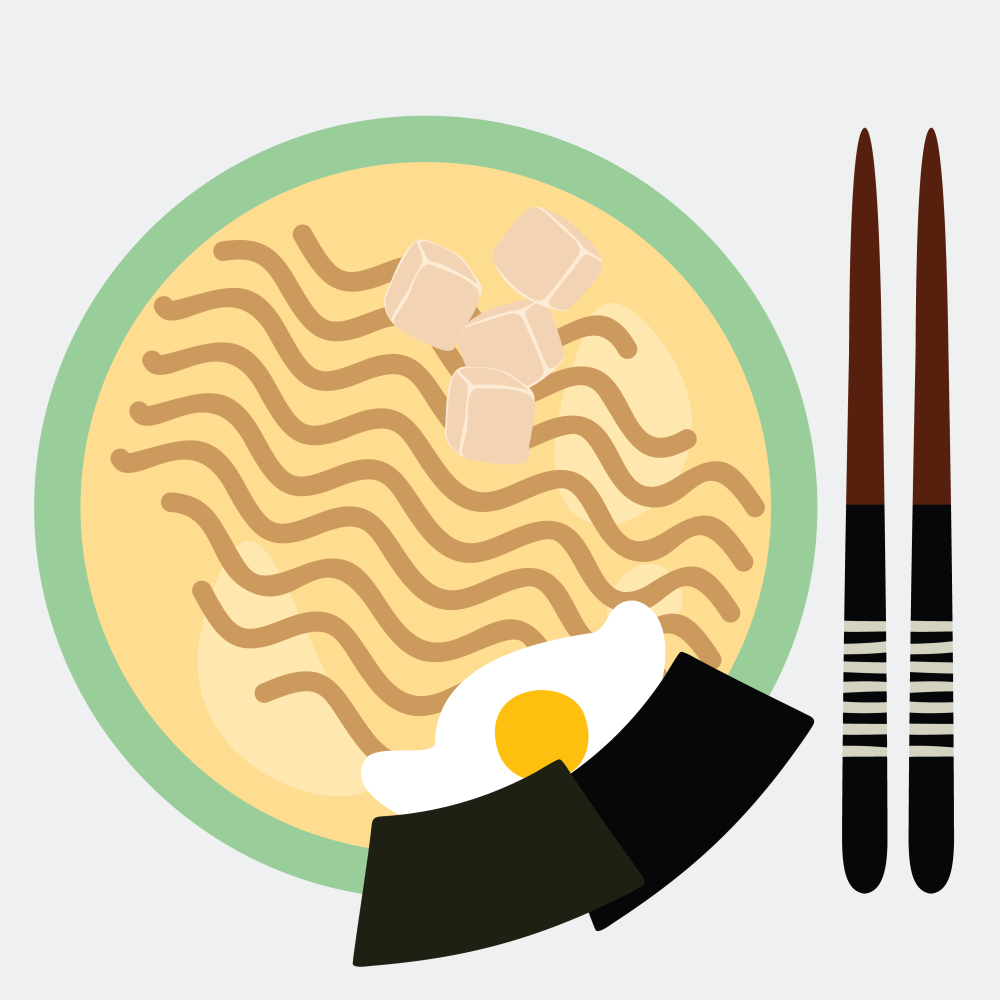
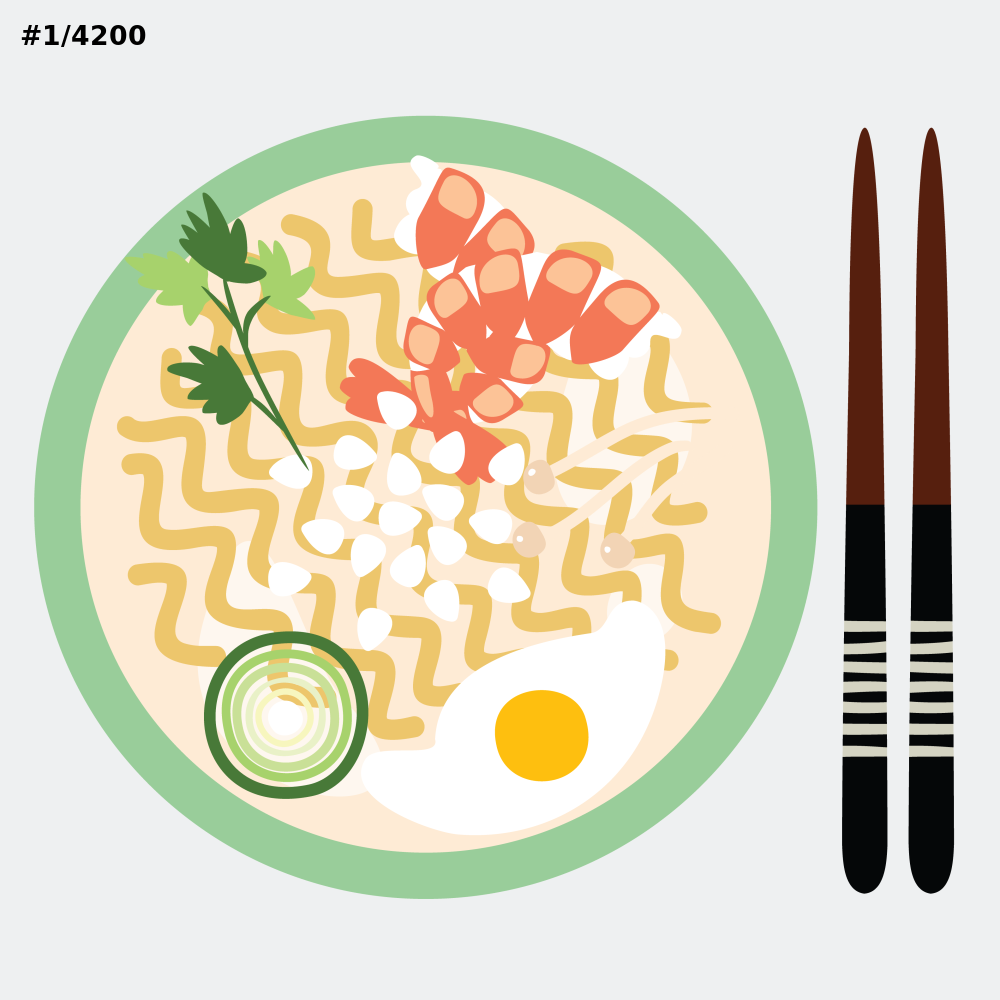
update engine w/ promises & new 'DNA' based metadata hash system

diff --git a/nft_pixel_maker/index.js b/nft_pixel_maker/index.js
@@ -5,74 +5,168 @@ const { layers, width, height } = require("./input/config");
 const canvas = createCanvas(width, height);
 const ctx = canvas.getContext("2d");
 // sets the amount to make  via terminal
-const edition = myArgs.length > 0 ? Number(myArgs[0]) : 1;
-let metadata = [];
-let attributes = [];
-let hash = [];
-let decodedHash = [];
+const editionSize = myArgs.length > 0 ? Number(myArgs[0]) : 1;
+let metadataList = [];
+let attributesList = [];
+let dnaList = [];
 
-const saveLayer = (_canvas, _edition) => {
-  fs.writeFileSync(`./output/${_edition}.png`, _canvas.toBuffer("image/png"));
+const saveImage = (_editionCount) => {
+  fs.writeFileSync(`./output/${_editionCount}.png`, canvas.toBuffer("image/png"));
 };
+
+const signImage = (_sig) => {
+  ctx.fillStyle = "#000000";
+  ctx.font = "bold italics 20pt Arial";
+  ctx.textBaseline = "top";
+  ctx.textAlign = "left";
+  ctx.fillText(_sig, 20, 20);
+};
+
+const genColour = () => {
+  let hue = Math.floor(Math.random() * 3600);
+  let pastel = `hsl(${hue}, 100%, 85%)`;
+  return pastel;
+}
+
+const drawBackground = () => {
+  ctx.fillStyle = genColour();
+  ctx.fillRect(0, 0, width, height);
+}
+
+
 
 //pushes meta data for nft to JSON
-const addMetadata = (_edition) => {
+const addMetadata = (_dna, _edition) => {
   let dateTime = Date.now();
   let tempMetadata = {
-    hash: hash.join(""),
-    decodedHash: "",
+    dna: _dna,
     edition: _edition,
     dateTime: dateTime,
-    attributes: attributes,
+    attributes: attributesList
   };
-  metadata.push(tempMetadata);
-  attributes = [];
-  hash = [];
-  decodedHash = [];
+  metadataList.push(tempMetadata);
+  attributesList = [];
 };
 
-const addAttributes = (_element, _layer) => {
-  let tempAttr = {
-    id: _element.id,
-    layer: _layer.name,
-    name: _element.name,
-    rarity: _element.rarity,
-  };
-  attributes.push(tempAttr);
-  hash.push(_layer.id);
-  hash.push(_element.id);
-  decodedHash.push({ [_layer.id]: _element.id });
+const addAttributes = (_element) => {
+  let selectedElement = _element.layer.selectedElement;
+  attributesList.push({
+    name: selectedElement.name,
+    rarity: selectedElement.rarity
+  })
 };
 
 // applies layers randomly to create our editions.
-const drawLayer = async (_layer, _edition) => {
-  let element =
-    _layer.elements[Math.floor(Math.random() * _layer.elements.length)];
-  addAttributes(element, _layer);
-
-  const image = await loadImage(`${_layer.location}${element.fileName}`);
-  ctx.drawImage(
-    image,
-    _layer.position.x,
-    _layer.position.y,
-    _layer.size.width,
-    _layer.size.height
-  );
-
-  saveLayer(canvas, _edition);
+const loadLayerImg = async (_layer) => {
+  return new Promise(async (resolve) => {
+    const image = await loadImage(`${_layer.location}${_layer.selectedElement.fileName}`);
+    resolve({layer: _layer, loadedImage: image})
+  });
 };
 
-// we want to loop over editon create a piece and loo over the layers obect.
-for (let i = 1; i <= edition; i++) {
-  layers.forEach((layer) => {
-    drawLayer(layer, i);
-  });
-  addMetadata(i);
-  console.log("Creating edition " + i);
-}
-//
+const drawElement = (_element) => {
+  ctx.drawImage(
+    _element.loadedImage,
+    _element.layer.position.x,
+    _element.layer.position.y,
+    _element.layer.size.width,
+    _element.layer.size.height
+  );
+  addAttributes(_element);
+};
 
-fs.readFile("./output/_metadata.json", (err, data) => {
-  if (err) throw err;
-  fs.writeFileSync("./output/_metadata.json", JSON.stringify(metadata));
-});
+const constructLayerToDna = (_dna, _layers) => {
+  // seperate the DNA number into pairs of 2 into an array
+  let dnaSegment = _dna.toString().match(/.{1,2}/g);
+  let counter = 0;
+  let mappedDnaToLayers = _layers.map((layer) => {
+    // select layer.element[index] by using remainder from each two pair/# of elements in the layer
+    let selectedElement = layer.elements[dnaSegment[counter] % layer.elements.length]
+    counter += 1;
+    return {
+      location: layer.location,
+      position: layer.position,
+      size: layer.size,
+      selectedElement: selectedElement
+    };
+  });
+  return mappedDnaToLayers;
+};
+
+const isDnaUnique = (_DnaList = [], _dna) => {
+  let foundDna =  _DnaList.find((i) => i === _dna);
+  return foundDna == undefined ? true : false;
+};
+
+const createDna = (_len) => {
+  let randNum = 0;
+  //have to generate a random two number pair for each layer (10 layers = 20 numbers)
+  if (_len > 16) {
+    let maxChar = 15;
+    //if more than 15 character number, BigInt must be used to avoid trailing zeroes
+    randNum = BigInt("" + Math.floor(
+      Number(`1e${maxChar}`) + Math.random() * Number(`9e${maxChar}`)) + Math.floor(Number(`1e${_len - maxChar - 1}`) + Math.random() * Number(`9e${_len - maxChar - 1}`)));
+  } else {
+    randNum = Math.floor(
+      Number(`1e${_len}`) + Math.random() * Number(`9e${_len}`)) + Math.floor(1000 + Math.random() * 9000);
+    console.log(randNum)
+  }
+  return randNum;
+}
+
+const writeMetadata = (_data) => {
+  fs.writeFileSync("./output/_metadata.json", _data);
+};
+
+// function which allows serilaization of BigInt into metadata if over 8 layers
+const stringify = (value) => {
+  if (value !== undefined) {
+    return JSON.stringify(value, (_, v) => typeof v === 'bigint' ? `${v}n` : v);
+  }
+};
+
+const startCreating = async () => {
+  //clears metadata every time you run the file
+  writeMetadata("");
+  // we want to loop over editon create a piece and loo over the layers obect.
+  let editionCount = 1;
+
+  while(editionCount <= editionSize) {
+    let newDna = createDna((layers.length * 2) - 1)
+    console.log(`New DNA: ${newDna}`);
+    // everything in if statement will run if dna is not found in dnalist
+    
+    if (isDnaUnique(dnaList, newDna)) {
+      
+      let results = constructLayerToDna(newDna, layers);
+      let loadedElements = [];
+      
+      // pushing each promise loadedElements PROMISE array
+      results.forEach(layer => {
+        loadedElements.push(loadLayerImg(layer));
+      })
+      
+      // takes in array of promises
+      await Promise.all(loadedElements).then(elementArray => {
+        drawBackground();
+        elementArray.forEach(element => {
+          drawElement(element);
+        });
+        signImage(`#${editionCount}/4200`);
+        saveImage(editionCount);
+        addMetadata(newDna, editionCount);
+        console.log(`New DNA is unique. Created edition ${editionCount} with DNA: ${newDna}`);
+      });
+        // Add new DNA (only if unique) to DNA List
+      dnaList.push(newDna)
+      // only increment counter if DNA is unique else log "DNA Exists" and don't increment
+      editionCount++;
+    } else {
+      console.log("DNA exists")
+    }
+  }
+  console.log("Final DNA List: ", dnaList);
+  writeMetadata(stringify(metadataList)); 
+};
+
+startCreating();

diff --git a/nft_pixel_maker/input/config.js b/nft_pixel_maker/input/config.js
@@ -47,53 +47,65 @@ const getElements = (path) => {
 //think about how your layers are built up!
 const layers = [
   {
-    id: 1,
-    name: "background_3",
     location: `${dir}/background_3/`,
     elements: getElements(`${dir}/background_3/`),
     position: { x: 0, y: 0 },
     size: { width: width, height: height },
   },
   {
-    id: 2,
-    name: "broth_4",
     location: `${dir}/broth_4/`,
     elements: getElements(`${dir}/broth_4/`),
     position: { x: 0, y: 0 },
     size: { width: width, height: height },
   },
   {
-    id: 3,
-    name: "noodle_4",
     location: `${dir}/noodle_4/`,
     elements: getElements(`${dir}/noodle_4/`),
     position: { x: 0, y: 0 },
     size: { width: width, height: height },
   },
   {
-    id: 4,
-    name: "egg_2",
     location: `${dir}/egg_2/`,
     elements: getElements(`${dir}/egg_2/`),
     position: { x: 0, y: 0 },
     size: { width: width, height: height },
   },
   {
-    id: 5,
-    name: "protein_4",
     location: `${dir}/protein_4/`,
     elements: getElements(`${dir}/protein_4/`),
     position: { x: 0, y: 0 },
     size: { width: width, height: height },
   },
   {
-    id: 6,
-    name: "seaweed_1",
-    location: `${dir}/seaweed_1/`,
-    elements: getElements(`${dir}/seaweed_1/`),
+    location: `${dir}/garnish_6/`,
+    elements: getElements(`${dir}/garnish_6/`),
     position: { x: 0, y: 0 },
     size: { width: width, height: height },
   },
+  {
+    location: `${dir}/mushroom_2/`,
+    elements: getElements(`${dir}/mushroom_2/`),
+    position: { x: 0, y: 0 },
+    size: { width: width, height: height },
+  },
+  {
+    location: `${dir}/onion_3/`,
+    elements: getElements(`${dir}/onion_3/`),
+    position: { x: 0, y: 0 },
+    size: { width: width, height: height },
+  },
+  {
+    location: `${dir}/veg_3/`,
+    elements: getElements(`${dir}/veg_3/`),
+    position: { x: 0, y: 0 },
+    size: { width: width, height: height },
+  },
+  // {
+  //   location: `${dir}/seaweed_1/`,
+  //   elements: getElements(`${dir}/seaweed_1/`),
+  //   position: { x: 0, y: 0 },
+  //   size: { width: width, height: height },
+  // },
 ];
 // console.log("!!!", getElements(`${dir}/bottom lid/`));
 module.exports = { layers, width, height };
